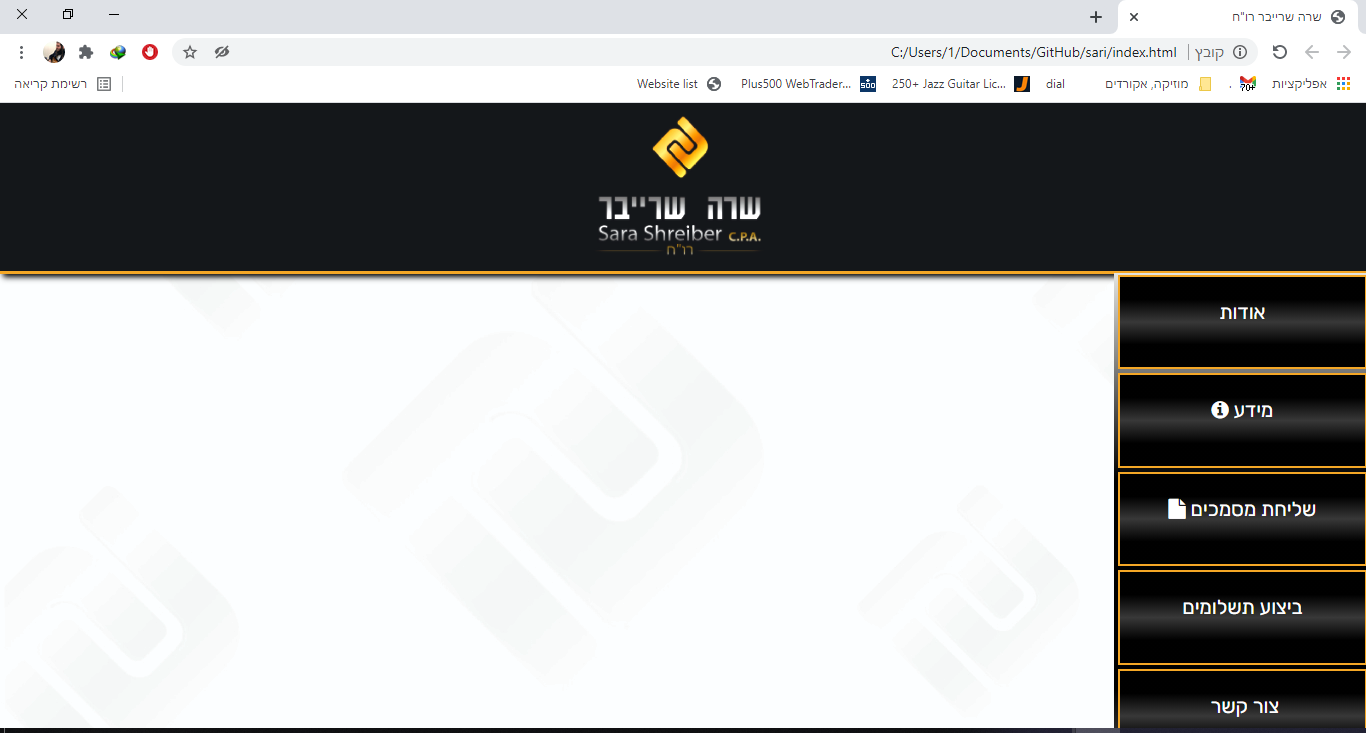
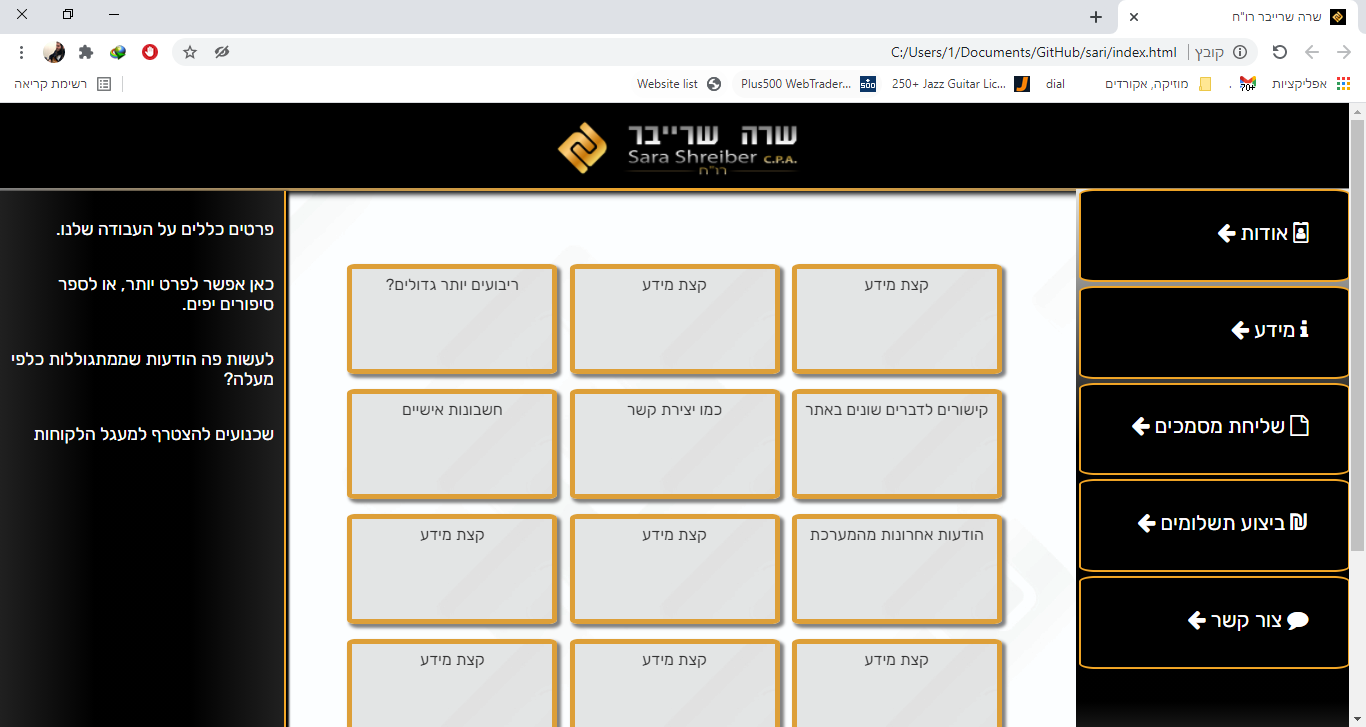
some more designing

diff --git a/style.css b/style.css
@@ -1,19 +1,20 @@
 body{
   background-image: url('bgrnd.jpg');
 
-
 }
 .head-title #sara{
   height: 75px;
   width: 180px;
   margin: 10px 0;
-
+}
+#sara:hover{
+    width: 190px;
+    height: 80px;
 }
 .head-title #ils{
   height: 75px;
   width: 75px;
   margin: 10px 0;
-
 }
 
 .head-title{
@@ -25,44 +26,116 @@ body{
   padding: 0 15%;
   text-align: center;
   z-index: 1;
+  text-decoration: none;
 }
 .headborder{
+  position: fixed;
+  z-index: 1;
   max-width: 110%;
+  min-width: 100%;
   height: 90px;
   margin: -10px -8px;
   background:linear-gradient(to right,  gray, #F4A726, gray);
-  filter: drop-shadow(3px 3px 3px black);
+  filter: drop-shadow(3px 3px 8px black);
 }
 
 .rightnav{
-  width: 20%;
+  position: fixed;
+  width: 17.1em;
   display: flex;
   flex-direction: column;
   align-content:stretch;
-  background: linear-gradient( to bottom ,#E4E4E1, black, black, #E4E4E1);
-  height: 100%;
-  position:fixed;
-  top:86px;
+  background: linear-gradient( to left ,#202020, black, black, #202020);
+  height: 123%;
+  top:89px;
   right: 0;
   padding: 3px -3px;
   margin: 0 -1px;
 }
 .rightbar{
   height: 45px;
-  width: 68%;
   display: block;
   border: 2px solid #F4A726;
-  padding: 8% 40px;
-  margin: 2px 0;
+  padding: 8% 30px 8% 40px;
+  margin: 1px 2px 4px 0;
   line-height: 40px;
   font-family: 'Rubik';
   font-weight:lighter;
-  font-size: 20px;
+  font-size: 1.3em;
   text-decoration: none;
-  background: linear-gradient( to top, black, black, #383838, black, black);
+  background: #4E4E4E;
   color: white;
-  text-align:right;
+  text-align: left;
+  border-radius: 4%/50%;
+
+
+}
+.rightbar .fa{
+  font-size: 2em;
+  color: #F4A726;
 }
 .rightbar:hover{
-  background: linear-gradient( to top,#383838, black, #383838);
+  background: black;
+
+  height: 46px;
+  margin: 1px 0 3px 0;
+}
+.maincontent{
+  height: 500px;
+  width: 50%;
+  display: flex;
+  flex-wrap: wrap;
+  position: relative;
+  margin: 0 auto;
+  top: 7em;
+  text-align: center;
+}
+.mainobject{
+  text-align: center;
+  width: 300px;
+  height: 200px;
+  color: #202020;
+  display: inline-block;
+  margin: 3px auto;
+  padding: 5px 0;
+  box-sizing: content-box;
+  border-radius: 4%;
+  font-family: 'Rubik';
+  font-size: 2em;
+  background-image: url('bgrnd.jpg');
+  text-decoration: none;
+  border: 5px solid #F4A726;
+  box-shadow: 3px 3px 3px 1px gray;
+  filter: contrast(80%);
+  line-height: 30px;
+}
+.mainobject:hover{
+  filter:opacity(80%);
+}
+.mainobject .fa{
+  font-size: 4em;
+  color: #F4A726;
+}
+.mainobject p{
+  margin: 6px auto;
+}
+.leftnav{
+  width: 15em;
+  display: flex;
+  flex-direction: column;
+  align-content:stretch;
+  background: linear-gradient( to left ,#202020, #4E4E4E, #4E4E4E, #202020);
+  height: 120%;
+  position: fixed;
+  top:88px;
+  left: 0;
+  padding: 10px 10px;
+  margin: 0 0;
+  line-height: 20px;
+  color: white;
+  box-shadow: 1px 2px 2px 2px black;
+  border-right: 2px solid #F4A726;
+  font-family: 'Rubik';
+  font-weight:lighter;
+  font-size: 1.1em;
 }

diff --git a/index.html b/index.html
@@ -26,26 +26,46 @@
     <div class="headborder">
      <div class="head-title">
       <a href="index.html">
-        <img id="sara" src="C:\Users\1\Documents\GitHub\sari\logosara.jpg">
-        <img id="ils" src="C:\Users\1\Documents\GitHub\sari\logoils.jpg">
+        <img id="sara"
+        src="C:\Users\1\Documents\GitHub\sari\logosara.jpg"><img id="ils"
+        src="C:\Users\1\Documents\GitHub\sari\logoils.jpg">
       </a>
       </div>
     </div>
 
 
   <div class="rightnav">
-    <a class="rightbar" href=""> אודות </a>
-    <a class="rightbar"><i class="fa fa-info"></i> מידע <i class="fa fa-left-arrow"></i></a>
-    <a class="rightbar" href=""><i class="fa fa-file-o"></i> שליחת מסמכים </a>
-    <a class="rightbar" href=""><i class="fa fa-shekel-sign"></i> ביצוע תשלומים </a>
-    <a class="rightbar" href=""> צור קשר <i class="fa fa-comment-lines"></i></a>
+    <a class="rightbar" href=""><i class="fa fa-id-badge"></i> אודות <i class="fa fa-arrow-left"></i></a>
+    <a class="rightbar "><i class="fa fa-info"></i> מידע <i class="fa fa-arrow-left"></i></a>
+    <a class="rightbar " href=""><i class="fa fa-file-o"></i> מסמכים <i class="fa fa-arrow-left"></i></a>
+    <a class="rightbar " href=""><i class="fa fa-shekel"></i> תשלום <i class="fa fa-arrow-left"></i></a>
+    <a class="rightbar " href=""><i class="fa fa-comment"></i> צור קשר <i class="fa fa-arrow-left"></i></a>
  </div>
 
   <div class="maincontent">
-    <div class="info"></div>
-    <div class="info"></div>
-    <div class="info"></div>
-    <div class="info"></div>
+    <div class="mainobject buttons">
+      <p>קצת מידע</p>
+    </div>
+    <div class="mainobject">
+      <a "href=""><i class="fa fa-file-o"></i> </a>
+      <p>מסמכים</p>
+    </div>
+    <div class="mainobject buttons">
+      <p>ריבועים יותר גדולים?</p>
+    </div>
+    <div class="mainobject buttons">
+      <p>קישורים לדברים שונים באתר</p>
+    </div>
+
+  </div>
+
+
+  <div class="leftnav">
+    <p>פרטים כללים על העבודה שלנו.</p>
+    <p>  כאן אפשר לפרט יותר, או לספר סיפורים יפים.</p>
+    <p>לעשות פה הודעות שממתגוללות כלפי מעלה?</p>
+    <p>שכנועים להצטרף למעגל הלקוחות</p>
+
   </div>
 
 
